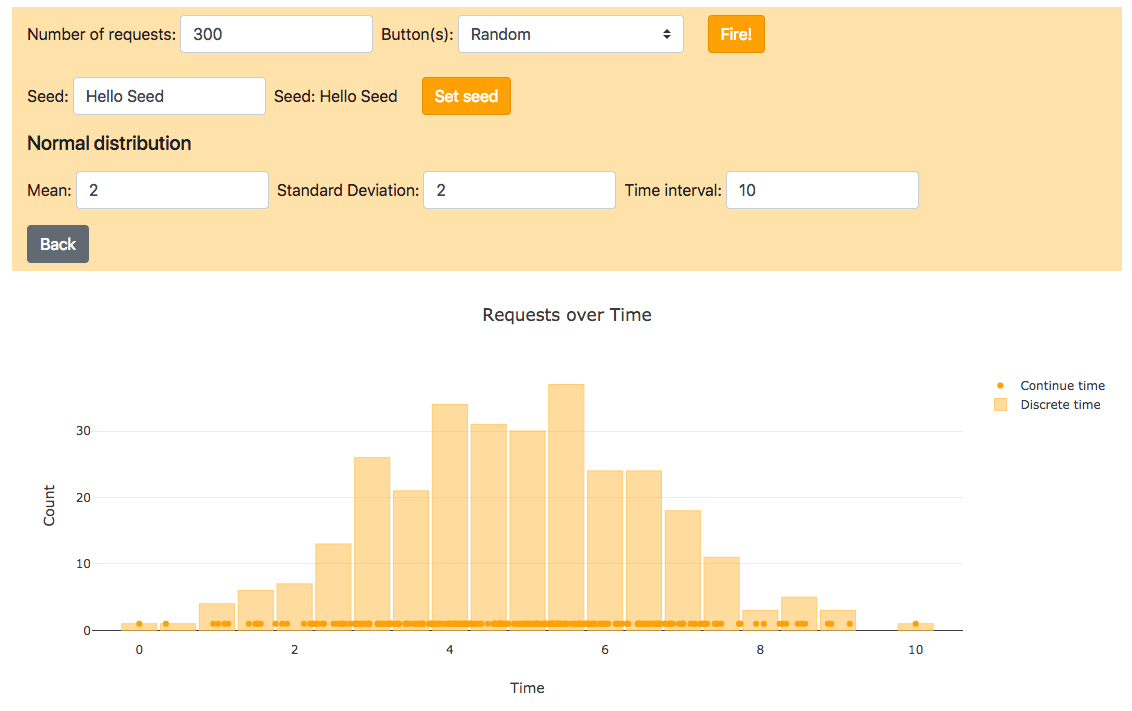
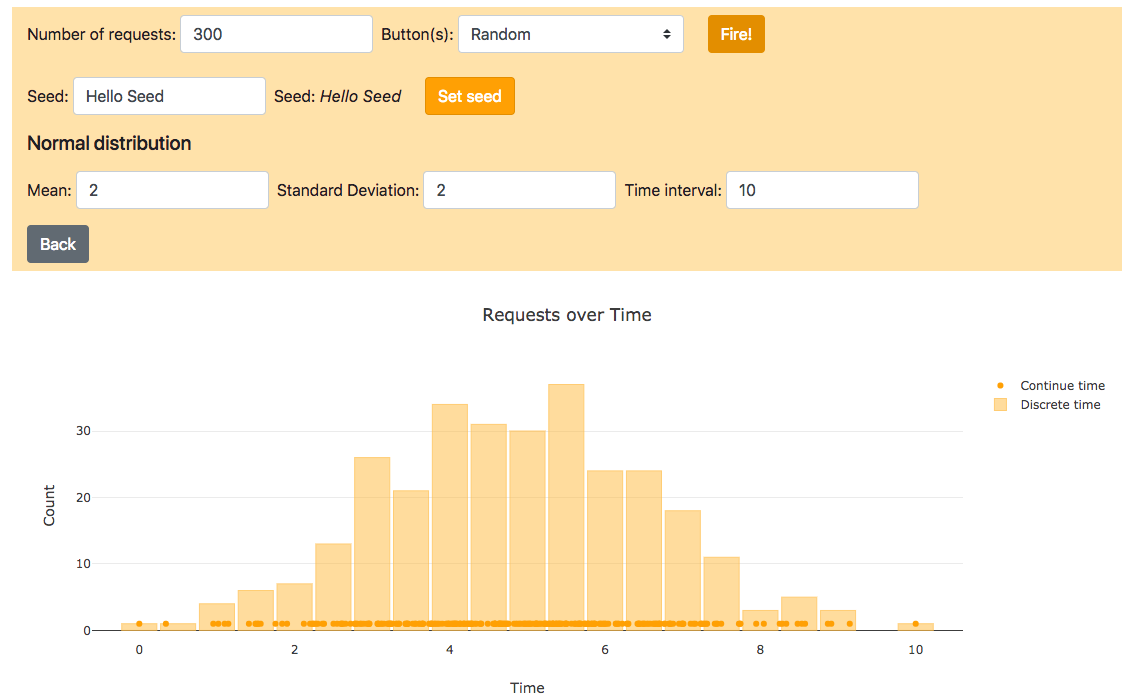
Change minified version and img

diff --git a/makerequests.min.js b/makerequests.min.js
@@ -1,1 +1,1 @@
-function MakeRequests(e){"use strict";var t,n,o,r,l,a,i,s,m,c,u,p,d,f,b,h,v,g,T,x,y,k,C=e.buttonClassName,N=e.putMeHereClassName,M=e.beta||e.all,w=e.chisquare||e.all,L=e.exp||e.all,S=e.normal||e.all,H=e.studentT||e.all,E=e.uni||e.all,q=e.linear||e.all,F=e.step||e.all,P=e.graph,R=function(){t[Math.floor(3*Math.random())].click()},j=function(e){t[e.buttonNum].click()};a=function(){var e=$("form.form-inline").serializeArray(),t={};return $(e).each(function(e,n){""===n.value?t[n.name]="0":t[n.name]=n.value}),t},i=function(){var e=document.createElement("style");e.innerHTML=".putMeHere {background:#ffe6b3} .distr-button { background:#ffcc66; border-color:#ffaa00; } .distr-button:focus, .distr-button:hover { background:#ffc34d; border-color:#ffaa00; outline: none !important; box-shadow: none;} .fire-btn{background:#ffaa00; border-color:#e69900;} .fire-btn:focus, .fire-btn:hover {background:#e69900; border-color:#e69900; outline: none !important; box-shadow: none;} .align-left {text-align: left;} .info-distr{ color:red; margin-left: 15px; margin-right: 15px;} .choose-btn{ margin-left: 15px !important}",document.body.appendChild(e)},s=function(e){var t;return(t=document.createElement("button")).type="button",t.className="btn btn-primary ml-2 mb-2 distr-button",t.textContent=e,t},m=function(e){var t,n,o,r,l=a(),i=[],s=0,m=0;switch(e){case"normal":for(s=0;s<l.numClick;s+=1)i.push(jStat.normal.sample(l.mean,l.stdev));return i;case"beta":for(s=0;s<l.numClick;s+=1)i.push(jStat.beta.sample(l.alpha,l.beta));return i;case"chisquare":for(s=0;s<l.numClick;s+=1)i.push(jStat.chisquare.sample(l.dof));return i;case"exp":for(s=0;s<l.numClick;s+=1)i.push(jStat.exponential.sample(l.rate));return i;case"uni":for(s=0;s<l.numClick;s+=1)i.push(jStat.uniform.sample(l.a,l.b));return i;case"studentT":for(s=0;s<l.numClick;s+=1)i.push(jStat.studentt.sample(l.dof));return i;case"linear":for(t=0,o=parseFloat(l.time)/parseFloat(l.step),s=0;s<=l.time;s+=o){for(m=0;m<t;m+=1)i.push(s);t+=parseInt(l.slope,10)}return i;case"step":for(o=Math.round(100/l.step),r=100*parseFloat(l.ratio),n=0;n<l.rep;n+=1){for(s=0;s<r;s+=o)for(m=0;m<l.highValue;m+=1)i.push(s+100*n);for(s=r;s<100;s+=o)for(m=0;m<l.lowValue;m+=1)i.push(s+100*n)}return i;default:return i=[]}},c=function(){var e=a(),n=0;if(parseInt(e.buttonNum,10)===t.length)for(n=0;n<e.numClick;n+=1)R();else for(n=0;n<e.numClick;n+=1)j(e)},u=function(e,t){var n,o,r,l,a={},i=[],s=[],m=[];e.forEach(function(e){a[e]=(a[e]||0)+1});for(n in a)a.hasOwnProperty(n)&&s.push(n);for(s.sort(function(e,t){return e-t}),o=0;o<s.length;o+=1)i.push(s[o]/1e3),m.push(a[s[o]]);r=[{x:i,y:m,marker:{color:"rgba(255, 170, 0, 1)"},name:"Continue time",mode:"markers"},"linear"===t||"step"===t?{x:i,y:m,mode:"lines",marker:{color:"rgba(255, 195, 77, 1)"},name:"Scatter",type:"scatter"}:{x:i,opacity:.75,marker:{color:"rgba(255, 195, 77, 0.7)",line:{color:"rgba(255, 195, 77, 1)",width:1}},name:"Discrete time",type:"histogram"}],l={bargap:.05,bargroupgap:.05,barmode:"overlay",title:"Requests over Time",xaxis:{title:"Time"},yaxis:{title:"Count"}},Plotly.newPlot("graph",r,l)},p=function(e){var n,o,r=a(),l=m(e),i=0;for(l.sort(function(e,t){return e-t}),n=l[0],l[0]=0,i=1;i<l.length;i+=1)l[i]=l[i]-n;for(o=1e3*parseFloat(r.time)/l[l.length-1],i=1;i<l.length;i+=1)l[i]*=o;if(P&&u(l,e),parseInt(r.buttonNum,10)===t.length)for(i=0;i<l.length;i+=1)setTimeout(R,l[i]);else for(i=0;i<l.length;i+=1)setTimeout(j(r),l[i])},f=function(){var e,t;(e=document.createElement("button")).type="button",e.className="btn btn-secondary choose-btn ml-2 mb-2",e.textContent="Back",e.onclick=function(){d()},r.appendChild(e),(t=document.createElement("div")).className="row",t.id="graph",n.appendChild(t)},b=function(){r.innerHTML="<h5 class='col-md-3 col-sm-6 align-left'>Normal distribution</h5><form class='form-inline col-md-12 col-sm-6 mt-2'><div class='form-group'><label for='meanText'>Mean:&nbsp</label><input type='number' class='form-control mr-sm-2' id='meanText' name='mean'/></div><div class='form-group'><label for='stdevText'>Standard Deviation:&nbsp</label><input type='number' class='form-control mr-sm-2' id='stdevText' name='stdev'/></div><div class='form-group'><label for='timeText'>Time interval:&nbsp</label><input type='number' placeholder='in seconds' class='form-control mr-sm-2' id='timeText' name='time'/></div></form>",l.onclick=function(){p("normal")},f()},h=function(){r.innerHTML="<h5 class='col-md-3 col-sm-6 align-left'>Beta distribution</h5><form class='form-inline col-md-12 col-sm-6 mt-2'><div class='form-group'><label for='alphaText'>Parameter alpha:&nbsp</label><input type='number' class='form-control mr-sm-2' id='alphaText' name='alpha'/></div><div class='form-group'><label for='betaText'>Parameter beta:&nbsp</label><input type='number' class='form-control mr-sm-2' id='betaText' name='beta'/></div><div class='form-group'><label for='timeText'>Time interval:&nbsp</label><input type='number' placeholder='in seconds' class='form-control mr-sm-2' id='timeText' name='time'/></div></form>",l.onclick=function(){p("beta")},f()},v=function(){r.innerHTML="<h5 class='col-md-3 col-sm-6 align-left'>Chi Square distribution</h5><form class='form-inline col-md-12 col-sm-6 mt-2'><div class='form-group'><label for='dofText'>Degrees of Freedom:&nbsp</label><input type='number' class='form-control mr-sm-2' id='dofText' name='dof'/></div><div class='form-group'><label for='timeText'>Time interval:&nbsp</label><input type='number' placeholder='in seconds' class='form-control mr-sm-2' id='timeText' name='time'/></div></form>",l.onclick=function(){p("chisquare")},f()},g=function(){r.innerHTML="<h5 class='col-md-3 col-sm-6 align-left'>Exponential distribution</h5><form class='form-inline col-md-12 col-sm-6 mt-2'><div class='form-group'><label for='rateText'>Rate:&nbsp</label><input type='number' class='form-control mr-sm-2' id='rateText' name='rate'/></div><div class='form-group'><label for='timeText'>Time interval:&nbsp</label><input type='number' placeholder='in seconds' class='form-control mr-sm-2' id='timeText' name='time'/></div></form>",l.onclick=function(){p("exp")},f()},T=function(){r.innerHTML="<h5 class='col-md-3 col-sm-6 align-left'>Uniform distribution</h5><p class='info-distr'>Parameters 'a' and 'b' are the initial and final point of the uniform sampling interval</p><form class='form-inline col-md-12 col-sm-6 mt-2'><div class='form-group'><label for='aText'>Parameter a:&nbsp</label><input type='number' class='form-control mr-sm-2' id='aText' name='a'/></div><div class='form-group'><label for='bText'>Parameter b:&nbsp</label><input type='number' class='form-control mr-sm-2' id='bText' name='b'/></div><div class='form-group'><label for='timeText'>Time interval:&nbsp</label><input type='number' placeholder='in seconds' class='form-control mr-sm-2' id='timeText' name='time'/></div></form>",l.onclick=function(){p("uni")},f()},x=function(){r.innerHTML="<h5 class='col-md-3 col-sm-6 align-left'>T-Student distribution</h5><form class='form-inline col-md-12 col-sm-6 mt-2'><div class='form-group'><label for='dofText'>Degrees of Freedom:&nbsp</label><input type='number' class='form-control mr-sm-2' id='dofText' name='dof'/></div><div class='form-group'><label for='timeText'>Time interval:&nbsp</label><input type='number' placeholder='in seconds' class='form-control mr-sm-2' id='timeText' name='time'/></div></form>",l.onclick=function(){p("studentT")},f()},y=function(){r.innerHTML="<h5 class='col-md-3 col-sm-6 align-left'>Linear growth</h5><p class='info-distr'>'Number of requests' parameter determined automatically for 'Linear growth'</p><form class='form-inline col-md-12 col-sm-6 mt-2'><div class='form-group'><label for='slopeText'>Slope:&nbsp</label><input type='number' class='form-control mr-sm-2' id='slopeText' name='slope'/></div><div class='form-group'><label for='stepText'>Number of steps:&nbsp</label><input type='number' class='form-control mr-sm-2' id='stepText' name='step'/></div><div class='form-group'><label for='timeText'>Time interval:&nbsp</label><input type='number' placeholder='in seconds' class='form-control mr-sm-2' id='timeText' name='time'/></div></form>",l.onclick=function(){p("linear")},f()},k=function(){r.innerHTML="<h5 class='col-md-3 col-sm-6 align-left'>Step function</h5><p class='info-distr'>'Number of requests' parameter determined automatically. 'Time interval' defines the entire duration. 'Number of steps' refers to a single repetition and it is rounded w.r.t the inserted 'Ratio'. </p><form class='form-inline col-md-12 col-sm-6 mt-2'><div class='form-group'><label for='lowText'>Low value:&nbsp</label><input type='number' class='form-control mr-sm-2' placeholder='0' id='lowText' name='lowValue'/></div><div class='form-group'><label for='highText'>High value:&nbsp</label><input type='number' class='form-control mr-sm-2' id='highText' name='highValue'/></div><div class='form-group'><label for='timeText'>Time interval:&nbsp</label><input type='number' placeholder='in seconds' class='form-control mr-sm-2' id='timeText' name='time'/></div><div class='form-group mt-2'><label for='ratioText'>Ratio:&nbsp</label><input type='number' class='form-control mr-sm-2' placeholder='0 to 1 value' id='ratioText' placeholder='timeHigh/timeLow' name='ratio'/></div><div class='form-group mt-2'><label for='stepText'>Number of steps:&nbsp</label><input type='number' class='form-control mr-sm-2' id='stepText' name='step'/></div><div class='form-group mt-2'><label for='repetitionsText'>Repetitions:&nbsp</label><input type='number' class='form-control mr-sm-2' id='repetitionsText' name='rep'/></div></form>",l.onclick=function(){p("step")},f()},d=function(){var e;r.innerHTML="",S&&((e=s("Normal")).onclick=function(){b()},r.appendChild(e)),M&&((e=s("Beta")).onclick=function(){h()},r.appendChild(e)),w&&((e=s("Chi Square")).onclick=function(){v()},r.appendChild(e)),L&&((e=s("Exponential")).onclick=function(){g()},r.appendChild(e)),E&&((e=s("Uniform")).onclick=function(){T()},r.appendChild(e)),H&&((e=s("T-Student")).onclick=function(){x()},r.appendChild(e)),q&&((e=s("Linear")).onclick=function(){y()},r.appendChild(e)),F&&((e=s("Step Function")).onclick=function(){k()},r.appendChild(e))},this.build=function(){i(),t=document.getElementsByClassName(C),n=document.getElementsByClassName(N)[0],o=document.createElement("div"),n.innerHTML="",o.className="row";var e,a,s=document.createElement("form");for(s.className="form-inline col-md-12 col-sm-6 mt-2",e="<div class='form-group'><label for='numClickText'>Number of requests:&nbsp</label><input type='number' class='form-control mr-sm-2' id='numClickText' name='numClick'/></div><div class='form-group'><label for='buttonsSelect'>Button(s):&nbsp</label><div class='input-group mr-sm-2'><select class='custom-select mr-sm-2' id='buttonsSelect' name='buttonNum'>",a=0;a<t.length;a+=1)e+="<option value='"+a+"'>"+t[a].firstChild.nodeValue+"</option>";e+="<option selected value='"+t.length+"'>Random</option>",s.innerHTML=e+"</select></div></div>",(l=document.createElement("button")).className="btn btn-info fire-btn ml-2",l.type="button",l.textContent="Fire!",l.onclick=c,s.appendChild(l),o.appendChild(s),n.appendChild(o),(r=document.createElement("div")).className="row",n.appendChild(r),d()}}
+function MakeRequests(e){"use strict";var t,n,o,l,r,a,i,m,s,c,u,d,p,f,b,h,v,T,g,x,y,k,C,N,M=e.buttonClassName,S=e.putMeHereClassName,E=e.beta||e.all,w=e.chisquare||e.all,L=e.exp||e.all,H=e.normal||e.all,q=e.studentT||e.all,B=e.uni||e.all,F=e.linear||e.all,P=e.step||e.all,I=e.graph,R=function(){t[Math.floor(3*Math.random())].click()},j=function(e){t[e.buttonNum].click()};i=function(){var e=$("form.form-inline").serializeArray(),t={};return $(e).each(function(e,n){""===n.value?t[n.name]="0":t[n.name]=n.value}),t},m=function(){var e=document.createElement("style");e.innerHTML=".putMeHere {background:#ffe6b3} .distr-button { background:#ffcc66; border-color:#ffaa00; } .distr-button:focus, .distr-button:hover { background:#ffc34d; border-color:#ffaa00; outline: none !important; box-shadow: none;} .fire-btn{background:#ffaa00; border-color:#e69900;} .fire-btn:focus, .fire-btn:hover {background:#e69900; border-color:#e69900; outline: none !important; box-shadow: none;} .align-left {text-align: left;} .info-distr{ color:red; margin-left: 15px; margin-right: 15px;} .choose-btn{ margin-left: 15px !important}",document.body.appendChild(e)},s=function(e){var t;return(t=document.createElement("button")).type="button",t.className="btn btn-primary ml-2 mb-2 distr-button",t.textContent=e,t},c=function(e){var t,n,o,l,r=i(),a=[],m=0,s=0;switch(e){case"normal":for(m=0;m<r.numClick;m+=1)a.push(jStat.normal.sample(r.mean,r.stdev));return a;case"beta":for(m=0;m<r.numClick;m+=1)a.push(jStat.beta.sample(r.alpha,r.beta));return a;case"chisquare":for(m=0;m<r.numClick;m+=1)a.push(jStat.chisquare.sample(r.dof));return a;case"exp":for(m=0;m<r.numClick;m+=1)a.push(jStat.exponential.sample(r.rate));return a;case"uni":for(m=0;m<r.numClick;m+=1)a.push(jStat.uniform.sample(r.a,r.b));return a;case"studentT":for(m=0;m<r.numClick;m+=1)a.push(jStat.studentt.sample(r.dof));return a;case"linear":for(t=0,o=parseFloat(r.time)/parseFloat(r.step),m=0;m<=r.time;m+=o){for(s=0;s<t;s+=1)a.push(m);t+=parseInt(r.slope,10)}return a;case"step":for(o=Math.round(100/r.step),l=100*parseFloat(r.ratio),n=0;n<r.rep;n+=1){for(m=0;m<l;m+=o)for(s=0;s<r.highValue;s+=1)a.push(m+100*n);for(m=l;m<100;m+=o)for(s=0;s<r.lowValue;s+=1)a.push(m+100*n)}return a;default:return a=[]}},u=function(){var e=i(),n=0;if(parseInt(e.buttonNum,10)===t.length)for(n=0;n<e.numClick;n+=1)R();else for(n=0;n<e.numClick;n+=1)j(e)},d=function(e,t){var n,o,l,r,a={},i=[],m=[],s=[];e.forEach(function(e){a[e]=(a[e]||0)+1});for(n in a)a.hasOwnProperty(n)&&m.push(n);for(m.sort(function(e,t){return e-t}),o=0;o<m.length;o+=1)i.push(m[o]/1e3),s.push(a[m[o]]);l=[{x:i,y:s,marker:{color:"rgba(255, 170, 0, 1)"},name:"Continue time",mode:"markers"},"linear"===t||"step"===t?{x:i,y:s,mode:"lines",marker:{color:"rgba(255, 195, 77, 1)"},name:"Scatter",type:"scatter"}:{x:i,opacity:.75,marker:{color:"rgba(255, 195, 77, 0.7)",line:{color:"rgba(255, 195, 77, 1)",width:1}},name:"Discrete time",type:"histogram"}],r={bargap:.05,bargroupgap:.05,barmode:"overlay",title:"Requests over Time",xaxis:{title:"Time"},yaxis:{title:"Count"}},Plotly.newPlot("graph",l,r)},p=function(e){var n,o,l=i(),r=c(e),a=0;for(r.sort(function(e,t){return e-t}),n=r[0],r[0]=0,a=1;a<r.length;a+=1)r[a]=r[a]-n;for(o=1e3*parseFloat(l.time)/r[r.length-1],a=1;a<r.length;a+=1)r[a]*=o;if(I&&d(r,e),parseInt(l.buttonNum,10)===t.length)for(a=0;a<r.length;a+=1)setTimeout(R,r[a]);else for(a=0;a<r.length;a+=1)setTimeout(j(l),r[a])},h=function(){var e,t;(e=document.createElement("button")).type="button",e.className="btn btn-secondary choose-btn ml-2 mb-2",e.textContent="Back",e.onclick=function(){f(),document.getElementById("numClickText").removeAttribute("disabled")},l.appendChild(e),(t=document.createElement("div")).className="row",t.id="graph",n.appendChild(t)},v=function(){l.innerHTML="<h5 class='col-md-3 col-sm-6 align-left'>Normal distribution</h5><form class='form-inline col-md-12 col-sm-6 mt-2'><div class='form-group'><label for='meanText'>Mean:&nbsp</label><input type='number' class='form-control mr-sm-2' id='meanText' name='mean'/></div><div class='form-group'><label for='stdevText'>Standard Deviation:&nbsp</label><input type='number' class='form-control mr-sm-2' id='stdevText' name='stdev'/></div><div class='form-group'><label for='timeText'>Time interval:&nbsp</label><input type='number' placeholder='in seconds' class='form-control mr-sm-2' id='timeText' name='time'/></div></form>",a.onclick=function(){p("normal")},h()},T=function(){l.innerHTML="<h5 class='col-md-3 col-sm-6 align-left'>Beta distribution</h5><form class='form-inline col-md-12 col-sm-6 mt-2'><div class='form-group'><label for='alphaText'>Parameter alpha:&nbsp</label><input type='number' class='form-control mr-sm-2' id='alphaText' name='alpha'/></div><div class='form-group'><label for='betaText'>Parameter beta:&nbsp</label><input type='number' class='form-control mr-sm-2' id='betaText' name='beta'/></div><div class='form-group'><label for='timeText'>Time interval:&nbsp</label><input type='number' placeholder='in seconds' class='form-control mr-sm-2' id='timeText' name='time'/></div></form>",a.onclick=function(){p("beta")},h()},g=function(){l.innerHTML="<h5 class='col-md-3 col-sm-6 align-left'>Chi Square distribution</h5><form class='form-inline col-md-12 col-sm-6 mt-2'><div class='form-group'><label for='dofText'>Degrees of Freedom:&nbsp</label><input type='number' class='form-control mr-sm-2' id='dofText' name='dof'/></div><div class='form-group'><label for='timeText'>Time interval:&nbsp</label><input type='number' placeholder='in seconds' class='form-control mr-sm-2' id='timeText' name='time'/></div></form>",a.onclick=function(){p("chisquare")},h()},x=function(){l.innerHTML="<h5 class='col-md-3 col-sm-6 align-left'>Exponential distribution</h5><form class='form-inline col-md-12 col-sm-6 mt-2'><div class='form-group'><label for='rateText'>Rate:&nbsp</label><input type='number' class='form-control mr-sm-2' id='rateText' name='rate'/></div><div class='form-group'><label for='timeText'>Time interval:&nbsp</label><input type='number' placeholder='in seconds' class='form-control mr-sm-2' id='timeText' name='time'/></div></form>",a.onclick=function(){p("exp")},h()},y=function(){l.innerHTML="<h5 class='col-md-3 col-sm-6 align-left'>Uniform distribution</h5><p class='info-distr'>Parameters 'a' and 'b' are the initial and final point of the uniform sampling interval</p><form class='form-inline col-md-12 col-sm-6 mt-2'><div class='form-group'><label for='aText'>Parameter a:&nbsp</label><input type='number' class='form-control mr-sm-2' id='aText' name='a'/></div><div class='form-group'><label for='bText'>Parameter b:&nbsp</label><input type='number' class='form-control mr-sm-2' id='bText' name='b'/></div><div class='form-group'><label for='timeText'>Time interval:&nbsp</label><input type='number' placeholder='in seconds' class='form-control mr-sm-2' id='timeText' name='time'/></div></form>",a.onclick=function(){p("uni")},h()},k=function(){l.innerHTML="<h5 class='col-md-3 col-sm-6 align-left'>T-Student distribution</h5><form class='form-inline col-md-12 col-sm-6 mt-2'><div class='form-group'><label for='dofText'>Degrees of Freedom:&nbsp</label><input type='number' class='form-control mr-sm-2' id='dofText' name='dof'/></div><div class='form-group'><label for='timeText'>Time interval:&nbsp</label><input type='number' placeholder='in seconds' class='form-control mr-sm-2' id='timeText' name='time'/></div></form>",a.onclick=function(){p("studentT")},h()},C=function(){l.innerHTML="<h5 class='col-md-3 col-sm-6 align-left'>Linear growth</h5><p class='info-distr'>'Number of requests' parameter determined automatically for 'Linear growth'</p><form class='form-inline col-md-12 col-sm-6 mt-2'><div class='form-group'><label for='slopeText'>Slope:&nbsp</label><input type='number' class='form-control mr-sm-2' id='slopeText' name='slope'/></div><div class='form-group'><label for='stepText'>Number of steps:&nbsp</label><input type='number' class='form-control mr-sm-2' id='stepText' name='step'/></div><div class='form-group'><label for='timeText'>Time interval:&nbsp</label><input type='number' placeholder='in seconds' class='form-control mr-sm-2' id='timeText' name='time'/></div></form>",document.getElementById("numClickText").setAttribute("disabled",""),a.onclick=function(){p("linear")},h()},N=function(){l.innerHTML="<h5 class='col-md-3 col-sm-6 align-left'>Step function</h5><p class='info-distr'>'Number of requests' parameter determined automatically. 'Time interval' defines the entire duration. 'Number of steps' refers to a single repetition and it is rounded w.r.t the inserted 'Ratio'. </p><form class='form-inline col-md-12 col-sm-6 mt-2'><div class='form-group'><label for='lowText'>Low value:&nbsp</label><input type='number' class='form-control mr-sm-2' placeholder='0' id='lowText' name='lowValue'/></div><div class='form-group'><label for='highText'>High value:&nbsp</label><input type='number' class='form-control mr-sm-2' id='highText' name='highValue'/></div><div class='form-group'><label for='timeText'>Time interval:&nbsp</label><input type='number' placeholder='in seconds' class='form-control mr-sm-2' id='timeText' name='time'/></div><div class='form-group mt-2'><label for='ratioText'>Ratio:&nbsp</label><input type='number' class='form-control mr-sm-2' placeholder='0 to 1 value' id='ratioText' placeholder='timeHigh/timeLow' name='ratio'/></div><div class='form-group mt-2'><label for='stepText'>Number of steps:&nbsp</label><input type='number' class='form-control mr-sm-2' id='stepText' name='step'/></div><div class='form-group mt-2'><label for='repetitionsText'>Repetitions:&nbsp</label><input type='number' class='form-control mr-sm-2' id='repetitionsText' name='rep'/></div></form>",document.getElementById("numClickText").setAttribute("disabled",""),a.onclick=function(){p("step")},h()},f=function(){var e;l.innerHTML="",H&&((e=s("Normal")).onclick=function(){v()},l.appendChild(e)),E&&((e=s("Beta")).onclick=function(){T()},l.appendChild(e)),w&&((e=s("Chi Square")).onclick=function(){g()},l.appendChild(e)),L&&((e=s("Exponential")).onclick=function(){x()},l.appendChild(e)),B&&((e=s("Uniform")).onclick=function(){y()},l.appendChild(e)),q&&((e=s("T-Student")).onclick=function(){k()},l.appendChild(e)),F&&((e=s("Linear")).onclick=function(){C()},l.appendChild(e)),P&&((e=s("Step Function")).onclick=function(){N()},l.appendChild(e))},b=function(){var e,l,m,s,c=document.createElement("form"),d=document.createElement("form");for(c.className="form-inline col-md-12 col-sm-6 mt-2",e="<div class='form-group'><label for='numClickText'>Number of requests:&nbsp</label><input type='number' class='form-control mr-sm-2' id='numClickText' name='numClick'/></div><div class='form-group'><label for='buttonsSelect'>Button(s):&nbsp</label><div class='input-group mr-sm-2'><select class='custom-select mr-sm-2' id='buttonsSelect' name='buttonNum'>",s=0;s<t.length;s+=1)e+="<option value='"+s+"'>"+t[s].firstChild.nodeValue+"</option>";e+="<option selected value='"+t.length+"'>Random</option>",c.innerHTML=e+"</select></div></div>",(a=document.createElement("button")).className="btn btn-info fire-btn ml-2",a.type="button",a.textContent="Fire!",a.onclick=u,c.appendChild(a),o.appendChild(c),n.appendChild(o),d.className="form-inline col-md-12 col-sm-6 mt-2",l="<div class='form-group'><label for='seedText'>Seed:&nbsp</label><input type='text' class='form-control mr-sm-2' id='seedText' name='seed'/></div><label id='currentSeed'><i>No seed currently set</i></label>",d.innerHTML=l,(m=document.createElement("button")).className="btn btn-info fire-btn ml-4",m.type="button",m.textContent="Set seed",m.onclick=function(){var e=i().seed;0!==e&&(Math.seedrandom(e),document.getElementById("currentSeed").innerHTML="Seed:<i>&nbsp"+e+"</i>")},d.appendChild(m),r.appendChild(d)},this.build=function(){m(),t=document.getElementsByClassName(M),(n=document.getElementsByClassName(S)[0]).innerHTML="",(o=document.createElement("div")).className="row",(r=document.createElement("div")).className="row",b(),n.appendChild(o),n.appendChild(r),(l=document.createElement("div")).className="row",n.appendChild(l),f()}}

diff --git a/makerequests.js b/makerequests.js
@@ -5,7 +5,6 @@
 // - bootstrap.js 4.0
 // - jquery.js 3.1.1
 // - jstat.js
-// - seedrandom.js 
 // - plotly.js
 
 /*global $, jQuery*/
@@ -566,7 +565,7 @@ function MakeRequests(opt) {
       //Random seed
       if (seed !== 0) {
         Math.seedrandom(seed);
-        document.getElementById('currentSeed').textContent = "Seed: " + seed;
+        document.getElementById('currentSeed').innerHTML = "Seed:<i>&nbsp" + seed + "</i>";
       }
       
     };
